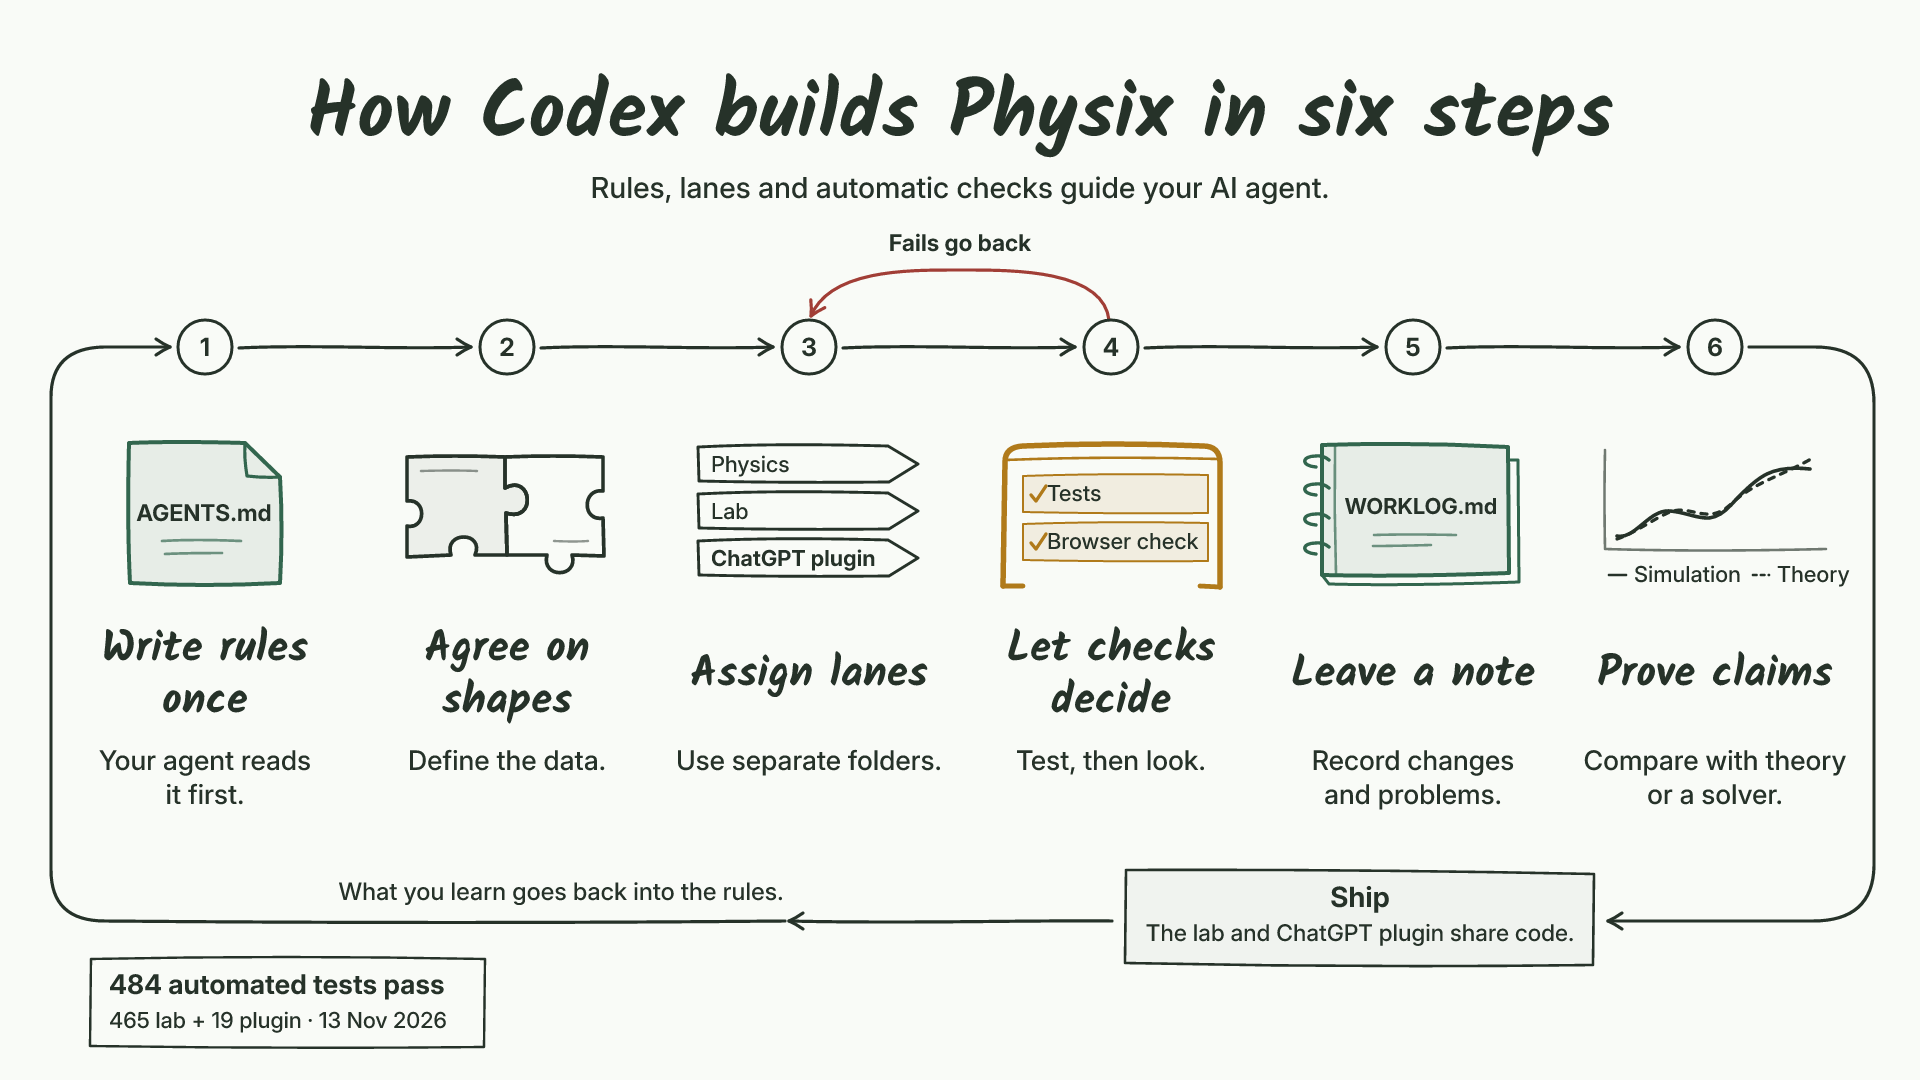
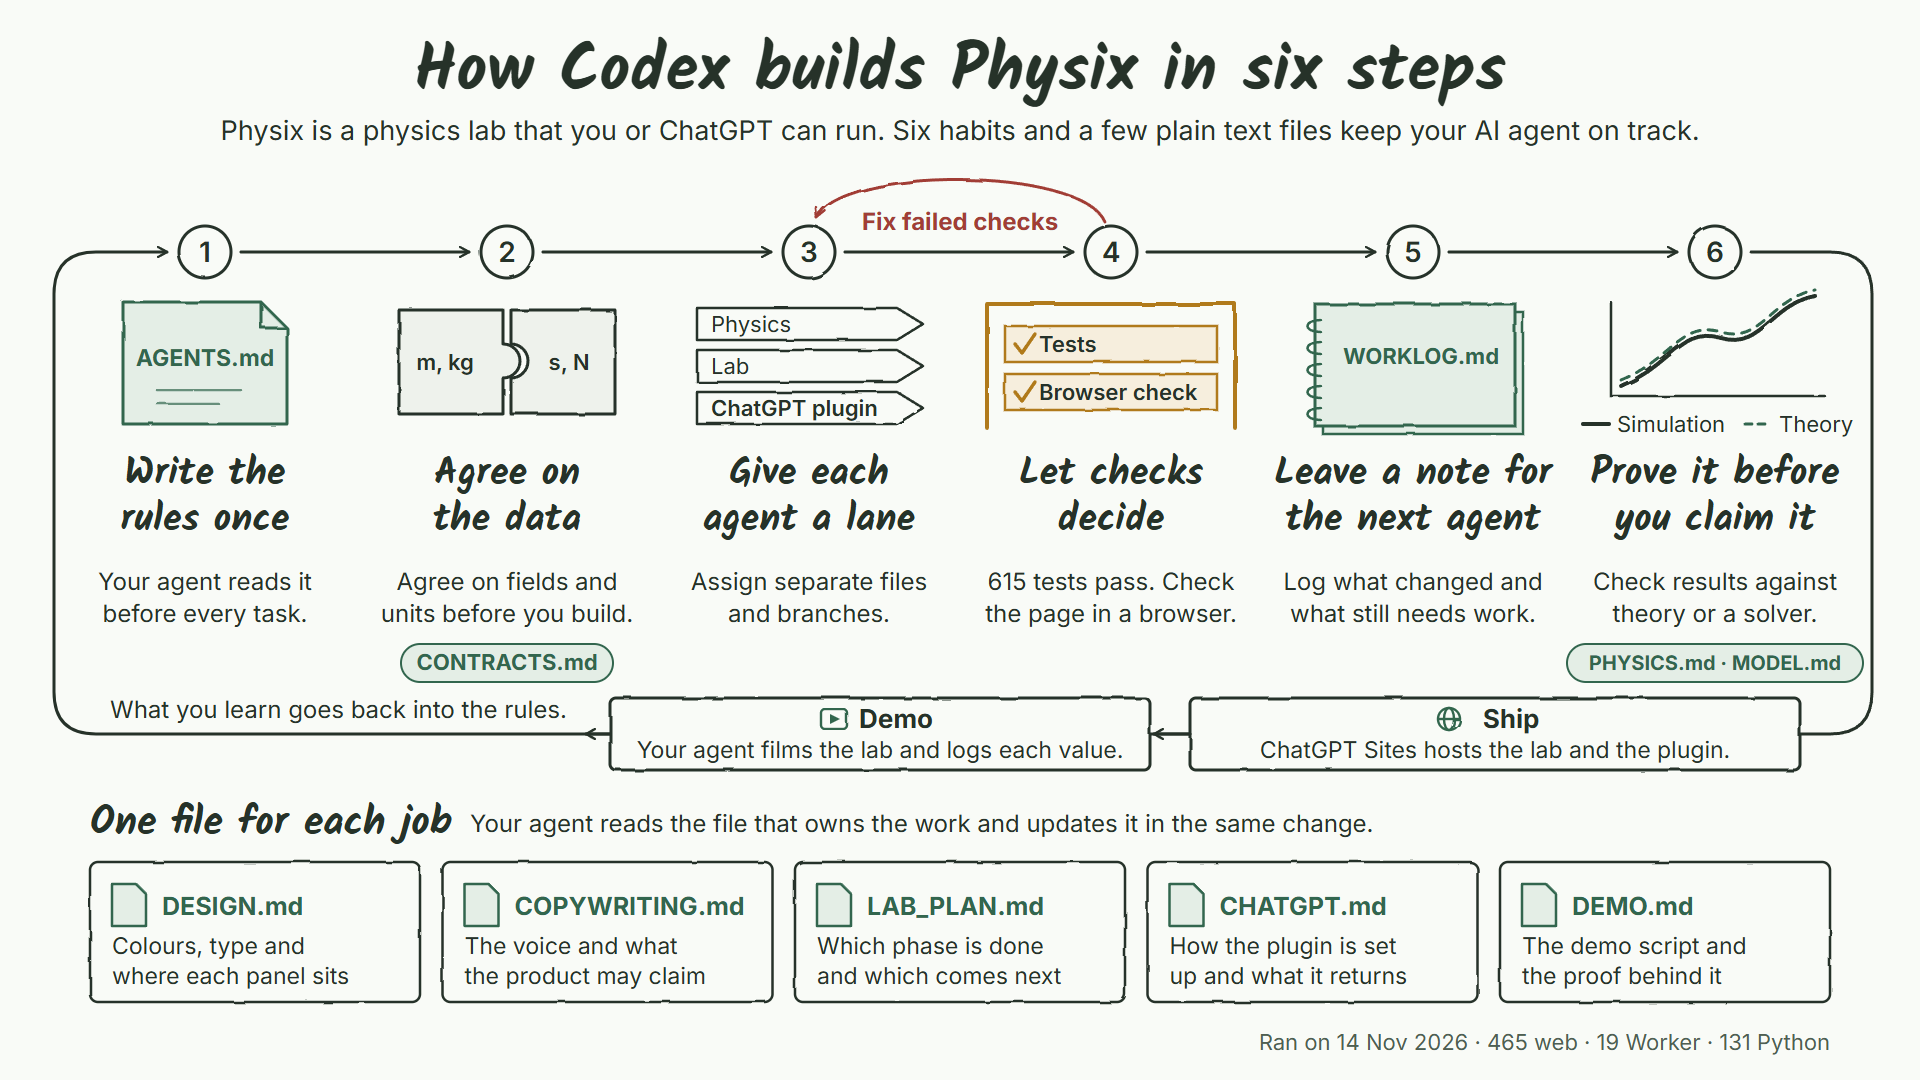
docs: explain the workflow board, file ownership and demo

Changed region(s): [[0.0312, 0.0306, 1.0, 0.9778], [0.0, 0.6417, 0.0312, 0.6722]]

diff --git a/docs/HARNESS_WHITEBOARD.md b/docs/HARNESS_WHITEBOARD.md
@@ -1,88 +1,106 @@
-# Brief: a whiteboard diagram of how Physix is built with Codex
+# Brief: the Codex workflow board
 
-You are a ChatGPT agent making one whiteboard diagram. It shows how this repository keeps
-Codex on track: one rules file, separate lanes, automatic checks, a work log and proof for
-every number.
+This brief defines the board in [`docs/assets/codex-workflow.png`](assets/codex-workflow.png),
+which the README shows under "How Codex built Physix". Use it to check the board or to redraw
+it after the method or the figures change.
 
-The audience is creators and founders who use AI agents to build their own ideas, not
-software engineers. They should leave with a method they can copy, not with a map of this
-repository. Keep the facts true to the repository and the words plain.
+The board introduces Physix and shows how to use rules, shared data formats, separate
+assignments and checks to build a project with Codex. It shows where you record decisions,
+verify results, ship the lab and make the demo. The audience is creators and founders
+who want a method they can use on their own projects.
 
-Read these files to check the facts. Don't copy their detail onto the board.
+Read these files to check the facts.
 
 | File | What you check in it |
 | --- | --- |
-| `AGENTS.md` | The rules every task starts from, the split by directory, the checks and the handoff |
-| `docs/WORKLOG.md` | That each change is recorded with its checks and known failures |
-| `docs/COPYWRITING.md` | The voice rules the board follows |
-| `docs/DESIGN.md` | The colours |
+| [AGENTS.md](../AGENTS.md) | The task rules, file ownership, checks and handoff |
+| [WORKLOG.md](WORKLOG.md) | Workstream handoffs, checks and known limitations |
+| [CONTRACTS.md](CONTRACTS.md) | Shared data formats and units |
+| [COPYWRITING.md](COPYWRITING.md) | The voice and claims |
+| [DESIGN.md](DESIGN.md) | Colours, type and layout |
+| [CHATGPT.md](CHATGPT.md) | The public lab and the private plugin that the Site provisions |
+| [DEMO.md](DEMO.md) | The agent records the lab, measures values and edits the cut. The owner records the signed-in ChatGPT segment. |
+| [PHYSICS.md](PHYSICS.md) and [MODEL.md](MODEL.md) | Reference solves and held-out model evaluation |
 
 ## The one idea
 
-- **Title**, at most 9 words: "How Codex builds Physix in six steps".
-- **Subtitle**, one sentence of at most 16 words: "One rules file, separate lanes and automatic
-  checks keep your AI agent on track."
+- **Title** “How Codex builds Physix in six steps”
+- **Subtitle**, two short sentences on one line "Physix is a physics lab that you or ChatGPT
+  can run. Six habits and a few plain text files keep your AI agent on track."
 
-A founder who reads only the title and the six headings should be able to explain the method
-in one breath.
+A founder who reads only the title, the six headings and the shelf heading should be able to
+explain the method in one breath.
 
 ## Output
 
-- One landscape board, 1920 × 1080 px, as SVG and PNG. No portrait version.
+- One landscape board, 1920 × 1080 px, as SVG and PNG.
 - Whiteboard look: an off-white board (`#f9fbf7`), marker strokes with a slight wobble and
   simple hand-drawn pictures. No texture over text.
-- A marker font for the title and step headings only. Inter for everything else.
+- A marker font (Kalam Bold) for the title, the step headings and the shelf heading only.
+  Inter for everything else.
 
 ## The six steps
 
 Draw the six steps as a loop from left to right, with each number in a circle. Each step has
-exactly three things: a heading of 2 to 5 words in sentence case that starts with a verb, one
-plain sentence of at most 10 words, and one simple drawing. Nothing else goes in a step.
+a heading in sentence case that starts with a verb, short copy on at most two lines,
+one simple drawing, and at most one file tag.
 
-| Step | Heading | Sentence | Drawing |
-| --- | --- | --- | --- |
-| 1 | Write the rules once | "Your agent reads one file before every task." | A single sheet labelled `AGENTS.md` |
-| 2 | Agree the shapes first | "Decide what data looks like before anyone builds." | Two puzzle pieces that fit together |
-| 3 | Give each agent a lane | "One folder each, so no two agents collide." | Three lanes labelled "Physics", "Lab" and "ChatGPT plugin", with no folder paths |
-| 4 | Let checks decide | "Tests run, then someone looks at the real page." | One gate with two ticks, "Tests" and "Browser check" |
-| 5 | Leave a note for the next agent | "A work log says what changed and what broke." | A notebook labelled `WORKLOG.md` |
-| 6 | Prove it before you claim it | "Every number is checked against theory or a solver." | Two overlapping curves labelled "Simulation" and "Theory" |
+| Step | Heading | Sentence | Drawing | File tag |
+| --- | --- | --- | --- | --- |
+| 1 | Write the rules once | "Your agent reads it before every task." | A sheet labelled `AGENTS.md` | None, the sheet names it |
+| 2 | Agree on the data | "Agree on fields and units before you build." | Two puzzle pieces, one marked "m, kg" and one "s, N" | `CONTRACTS.md` |
+| 3 | Give each agent a lane | "Assign separate files and branches." | Three lanes labelled "Physics", "Lab" and "ChatGPT plugin" | None |
+| 4 | Let checks decide | "615 tests pass. Check the page in a browser." | A frame with two ticks, "Tests" and "Browser check" | None |
+| 5 | Leave a note for the next agent | "Log what changed and what still needs work." | A notebook labelled `WORKLOG.md` | None, the notebook names it |
+| 6 | Prove it before you claim it | "Check results against theory or a solver." | Two overlapping curves labelled "Simulation" and "Theory" | `PHYSICS.md · MODEL.md` |
 
-- A red arrow runs from step 4 back to step 3, labelled "Fails go back".
+- A red arrow runs from step 4 back to step 3, labelled "Fix failed checks".
 - The return path along the bottom carries one label, "What you learn goes back into the
   rules.", and ends in an arrow into step 1.
-- One "Ship" stop sits on the return path with one sentence: "The same code runs the lab and
-  the ChatGPT plugin."
+- Two stops sit on the return path, each a box with a small drawing, a heading and one
+  sentence. The path reaches Ship, then Demo.
+  - **Ship**, with a globe: "ChatGPT Sites hosts the lab and the plugin."
+  - **Demo**, with a play button: "Your agent films the lab and logs each value."
+
+## The file shelf
+
+Under the loop, place the heading "One file for each job" beside the sentence "Your agent
+reads the file that owns the work and updates it in the same change." Then five cards, each
+with a file name and what the file decides:
+
+| File | Card text |
+| --- | --- |
+| `DESIGN.md` | Colours, type and where each panel sits |
+| `COPYWRITING.md` | The voice and what the product may claim |
+| `LAB_PLAN.md` | Which phase is done and which comes next |
+| `CHATGPT.md` | How the plugin is set up and what it returns |
+| `DEMO.md` | The demo script and the proof behind it |
 
 ## Number
 
-Show one number at most, in a small tag at the bottom left:
+Step 4 gives the total from the three test suites. The footer shows the date and the
+breakdown as “Ran on 14 Nov 2026 · 465 web · 19 Worker · 131 Python”.
 
-- "484 automated tests pass"
-- In small text under it: "465 lab + 19 plugin · 13 Nov 2026"
-
-Before you publish, re-run both commands from the repository root and update the figures and
+Before you publish, re-run these commands from the repository root and update the figures and
 the date if they changed:
 
 - `pnpm --filter @physix/web exec vitest run`
 - `node --test mcp/sites/worker.test.mjs`
+- `uv run --no-sync pytest -q`
 
-## Word, space and colour budget
+## Size and colour
 
-- At most 90 words on the board, not counting the title.
-- At least a third of the board stays empty.
-- Step headings are at least 40 px, sentences at least 26 px, and nothing is smaller than
-  22 px. Each heading fits on two lines at most.
+- Step headings are at least 38 px, sentences and card text at least 23 px, and nothing is
+  smaller than 20 px. Each heading fits on two lines.
 - No text touches or crosses a box edge.
-- Four colours, each with one meaning, labelled in place so the board needs no legend:
-  - ink `#263229` for all text;
-  - green `#32664e` for the two files, `AGENTS.md` and `WORKLOG.md`;
-  - amber `#b07a1a` for the checks in step 4;
-  - red `#a13e36` only for "Fails go back".
+- Use ink (`#263229`) for body text and outlines and muted ink (`#4f5f53`) for the footer.
+- Use green (`#32664e`) for files, the theory line and the icons on the return path.
+- Use amber (`#b07a1a`) for the checks in step 4.
+- Use red (`#a13e36`) for the "Fix failed checks" arrow and label.
 
 ## Copy rules
 
-Follow `docs/COPYWRITING.md`.
+Follow [COPYWRITING.md](COPYWRITING.md).
 
 - Speak to the reader as "you". Say **AI agent** once, in the subtitle, and **your agent**
   everywhere else. Say **Codex** only in the title.
@@ -93,19 +111,16 @@ Follow `docs/COPYWRITING.md`.
 
 ## Leave out
 
-- A side panel or a list of documents, and a colour legend.
+- A colour legend.
 - Schema names, test fixtures, `make` commands, pre-commit hooks, CI, lockfiles, solver names,
   timing details and folder paths.
-- The words "merge", "gate", "contracts", "workstream" and "fixtures".
+- The words "merge", "gate", "contracts", "workstream" and "fixtures" outside file names.
 - Personal names, email addresses, account IDs, anything in `.openai/`, secrets and every URL.
 
 ## Check before you deliver
 
-Report each item as passed or failed.
-
-- [ ] The board has 90 words or fewer, not counting the title. Give the count.
-- [ ] The title and six headings explain the method on their own.
+- [ ] The title, the six headings and the shelf heading explain the method on their own.
 - [ ] Every label sits fully inside its box at 100% zoom.
-- [ ] Each colour means one thing, and its meaning is clear from the label beside it.
+- [ ] Labels and shapes identify the checks, files and return path without a separate key.
 - [ ] Contrast against the board is at least 4.5:1 for all text.
-- [ ] The number matches a fresh run of both commands. Paste the output.
+- [ ] The test count matches a fresh run of the three commands.

diff --git a/README.md b/README.md
@@ -32,6 +32,10 @@ claim needs.
   two hours; [WORKLOG.md](docs/WORKLOG.md) records each one.
 - **Planned phases.** Lab v2 followed [LAB_PLAN.md](docs/LAB_PLAN.md), with exit criteria and
   measured status for each phase.
+- **One file for each job.** Use [CONTRACTS.md](docs/CONTRACTS.md) for data formats and units,
+  [DESIGN.md](docs/DESIGN.md) for visuals and layout, and [COPYWRITING.md](docs/COPYWRITING.md)
+  for voice and product claims. Your agent updates the relevant file in the same change as
+  the behaviour it describes.
 - **Checks on every change.** 131 Python tests, 465 web tests and 19 hosted plugin tests
   passed on 14 November 2026, with lint, a production build and a check in the browser.
 - **Evidence for every number.** The stress model's median von Mises error is 2.2% against
@@ -218,7 +222,7 @@ versions, and timing boundaries. Model disagreement is reported separately from 
 | `mcp/sites/` | Hosted ChatGPT Worker that shares the lab's scene builder and motion run |
 | `skills/physix/` | Agent skill: tool choice, supported domain, provenance and verification |
 | `scripts/`, `tests/` | Command wiring and Python tests by subsystem (web tests sit beside the code) |
-| `docs/` | [Contracts](docs/CONTRACTS.md), [design](docs/DESIGN.md), [copywriting](docs/COPYWRITING.md), [lab plan](docs/LAB_PLAN.md), [ChatGPT](docs/CHATGPT.md), [physics reference](docs/PHYSICS.md), [model evaluation](docs/MODEL.md), [v1 plan](docs/PLAN.md), [demo](docs/DEMO.md), [work log](docs/WORKLOG.md), [harness diagram brief](docs/HARNESS_WHITEBOARD.md) |
+| `docs/` | [Contracts](docs/CONTRACTS.md), [design](docs/DESIGN.md), [copywriting](docs/COPYWRITING.md), [lab plan](docs/LAB_PLAN.md), [ChatGPT](docs/CHATGPT.md), [physics reference](docs/PHYSICS.md), [model evaluation](docs/MODEL.md), [v1 plan](docs/PLAN.md), [usability review](docs/UX_REVIEW.md), [demo](docs/DEMO.md), [work log](docs/WORKLOG.md), [workflow board brief](docs/HARNESS_WHITEBOARD.md) |
 
 Generated datasets, checkpoints, exports and browser model bundles stay out of Git.
 

diff --git a/AGENTS.md b/AGENTS.md
@@ -36,6 +36,9 @@ Each document has one job. Change the owning document in the same change as the 
 | `docs/CHATGPT.md` | Hosted plugin setup and tool behaviour |
 | `docs/WORKLOG.md` | Branches, handoffs, checks and known limitations |
 | `docs/DEMO.md` | The recorded demo: setup, shot list, script and evidence rules |
+| `docs/HARNESS_WHITEBOARD.md` | The steps, wording and figures for the Codex workflow board in the README |
+| `docs/UX_REVIEW.md` | Usability findings and the conditions of the performance review |
+| `docs/PLAN.md` | The completed v1 milestones, kept as a record |
 
 The reference path starts with a validated case, builds a mesh, solves with scikit-fem, and produces stress components. Rasterization maps the reference field and solid mask onto the model grid. The ensemble consumes the same case encoding and produces a field plus disagreement. The service sends uncertain but solver-supported cases through FEM and enqueues successful results for later training. Make the fallback policy and thresholds versioned with the model.
 

diff --git a/docs/WORKLOG.md b/docs/WORKLOG.md
@@ -34,6 +34,7 @@ of the running lab.
 | Phase 3 · New parts and variables | Sweeps and fits, ball, pendulum, spring, simulated pulley, materials, launcher, forces, drag, rods and ropes, run history, grids, stress sweeps and convergence | `e4078ff` to `dd1ca23` |
 | Hosted ChatGPT plugin | Connect page, share links, `build_scene`, `simulate_scene` and plotted values | `39cf96b` to `cb42cf5` |
 | Phase 3 follow-ups | Move arrows on the selected part, sprung Atwood machine, spring bumper and its ramp template, page review fixes, README opening with the live lab and the Codex workflow | `a17585f`, `e357725`, `58caec2` |
+| Reviewer docs | Workflow board with the file shelf, Ship and Demo stops, README links and document ownership, published demo specs, and removal of three redundant `.gitkeep` files | `docs/reviewer-polish` |
 
 Checks at each slice: `vitest run`, `tsc --noEmit`, `eslint`, `prettier --check` and
 `vite build` in `web/`, `node --test mcp/sites/worker.test.mjs` for the hosted Worker, and

diff --git a/docs/DEMO.md b/docs/DEMO.md
@@ -33,6 +33,8 @@ Work in a folder outside the repository, such as `../physix-demo/`. Commit nothi
 | `script.md` | The final narration and on-screen text, with timings |
 | `raw/` | Unedited captures and CSV exports, named by segment |
 
+The published cut is 2560 × 1440 at 60 fps, −14 LUFS integrated and −1.5 dBTP, with short dissolves between shots and hard cuts in the template montage.
+
 ## Retention rules
 
 These come from short-form work that held viewers to the end, adapted to a landscape video.
